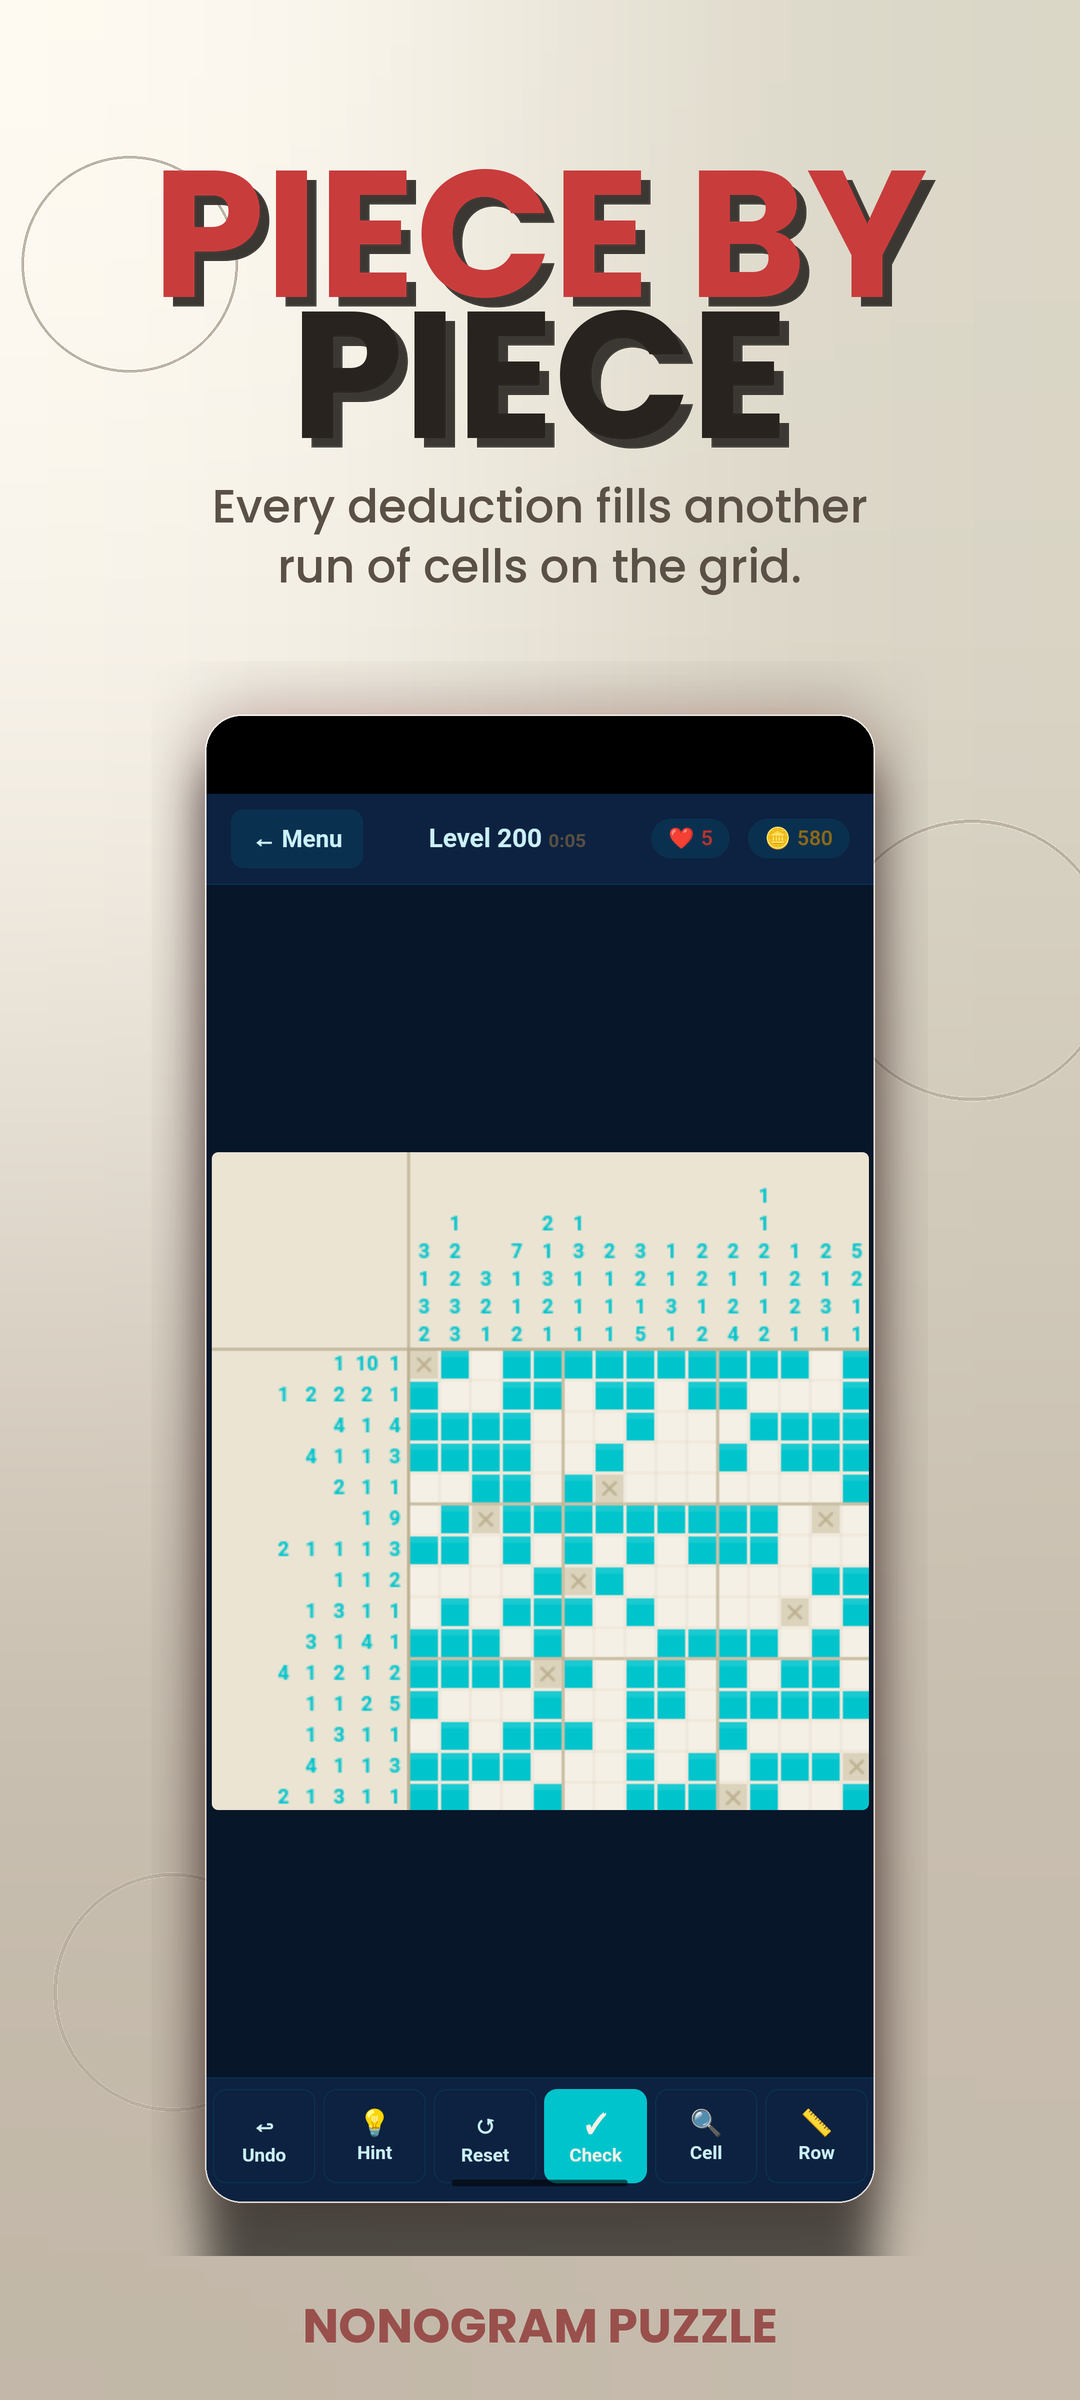
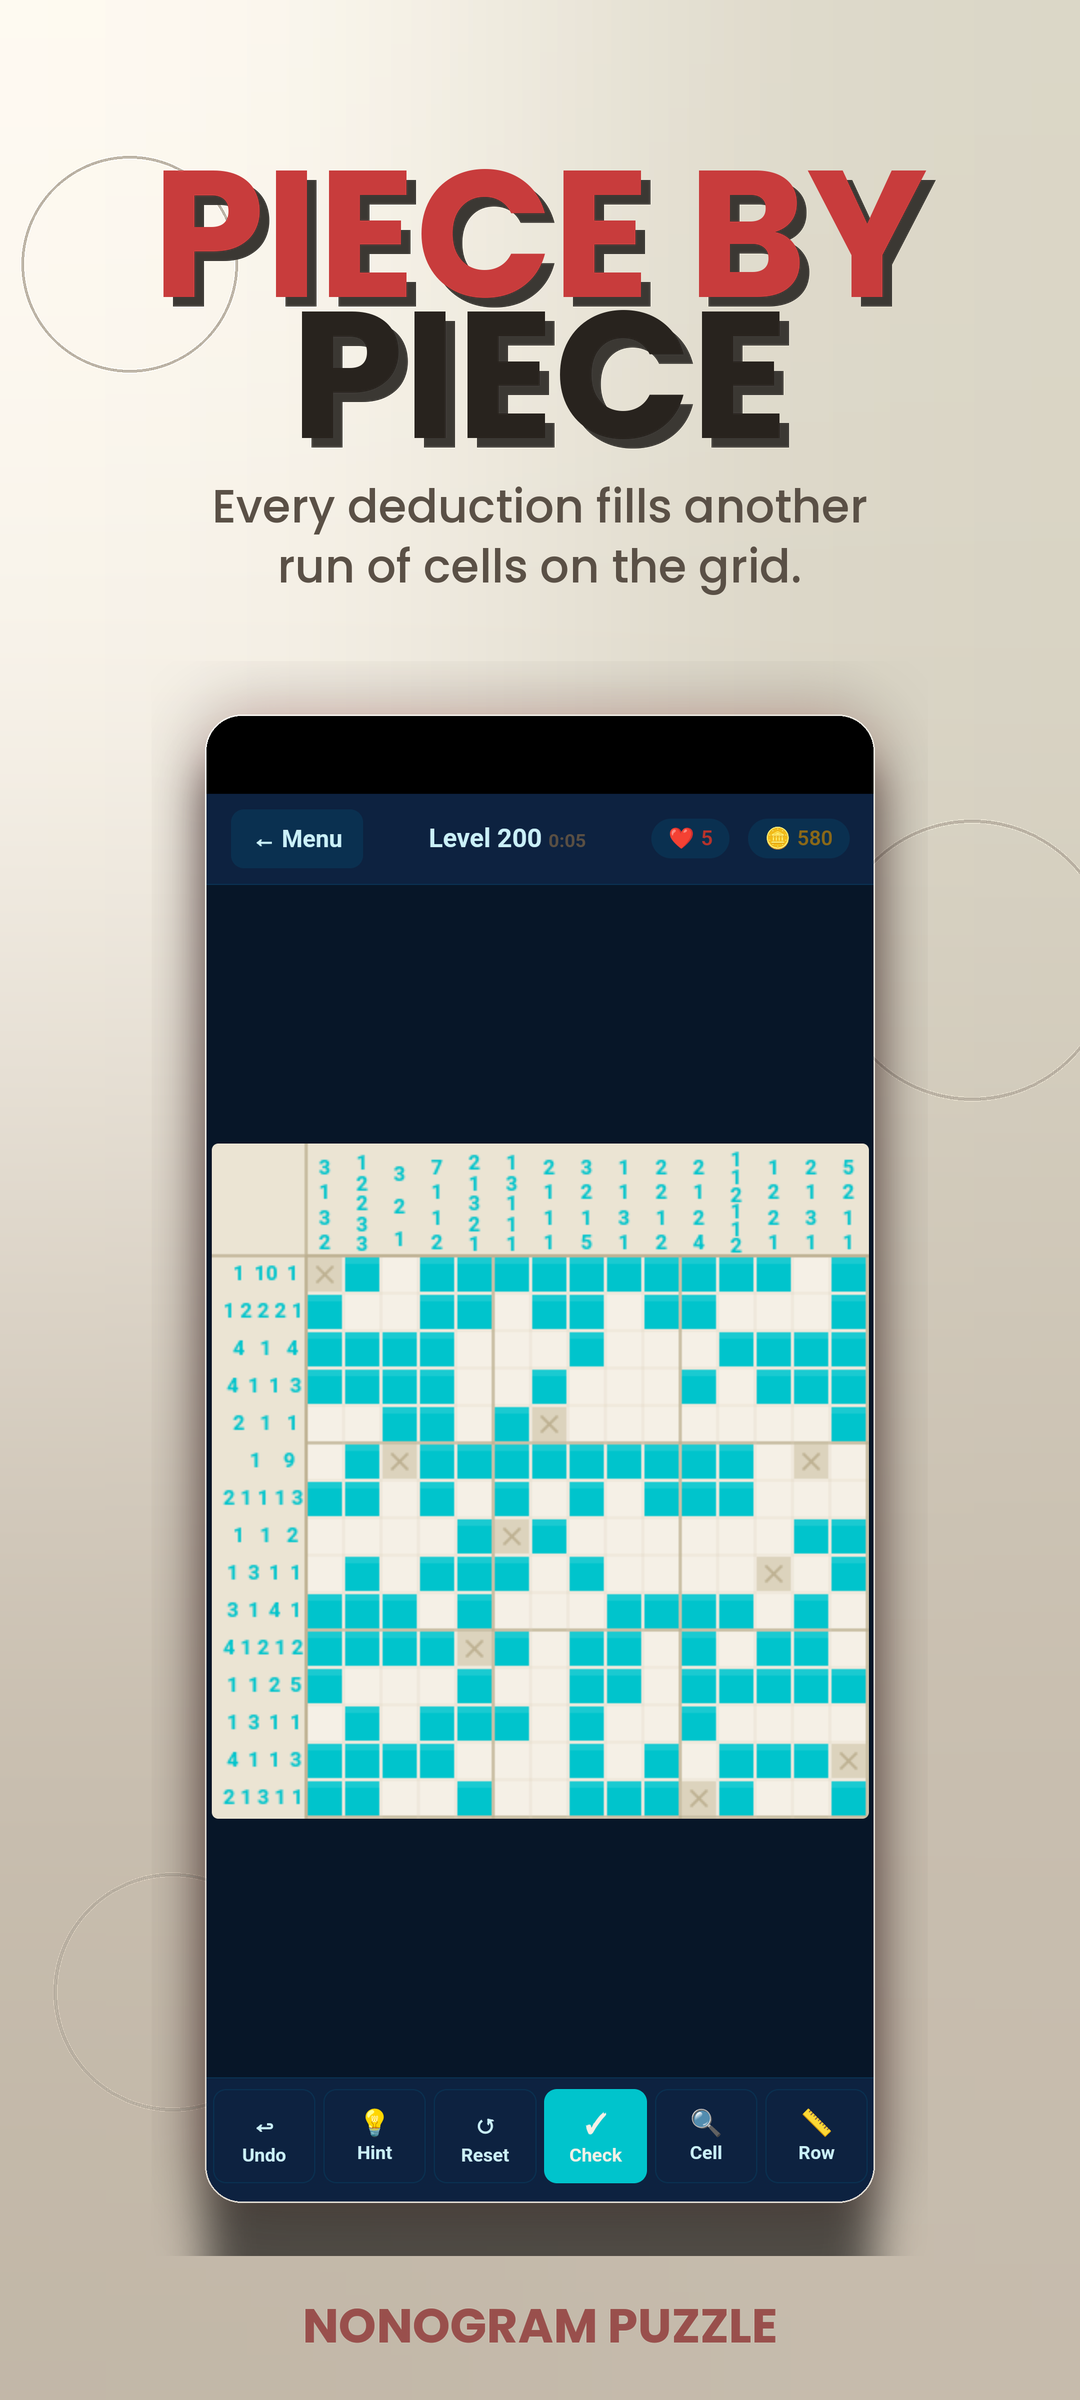
UB drop Achievements from Stats + Nono dynamic board sizing
UnblockPuzzle:
- Stats screen no longer renders the Achievements medal row; the same
  row already appears on the Missions screen so Stats was duplicating
  it. renderStats now emits only the hero card + 4 stat rows + best
  solves; medalsHtml + achievements pool variables deleted.

Nonogram:
- Clue strip width/height is now computed from the actual max clue
  count per row + per column (was a fixed clueRatio table). The board
  is sized so clue strips + grid cells together fill the canvas
  dynamically: a level with sparse clues gets narrow strips and big
  cells; a level with dense clues gets wider strips and tighter cells.
  Cell-size cap dropped (was 110px) — small boards can now grow to
  150-180px per cell on a phone. CLUE_SLOT tightened 0.75 -> 0.5.
- Clue font cap raised 28 -> 40, scales cellSize*0.55 with floor 12px.
  Small boards now show 40px clue numbers cleanly; 20×20 boards still
  fit clues at 24-28px in the narrower clue strip.

Both apps recaptured + re-wrapped + store paste regenerated.
All 4: pre_publish_check clean.

Changed region(s): [[0.2139, 0.4688, 0.825, 0.7812]]

diff --git a/Nonogram/android/app/src/main/assets/game.html b/Nonogram/android/app/src/main/assets/game.html
@@ -3144,38 +3144,40 @@ function watchAdForLife() {
 // ===================================================================
 function resizeCanvas() {
   if (!currentLevelData) return;
-  const size = currentLevelData.size;
+  const { size, rowClues, colClues } = currentLevelData;
   const wrap = document.querySelector('.canvas-wrap');
   const W = wrap.clientWidth || window.innerWidth;
   const H = wrap.clientHeight || (window.innerHeight - 100);
 
-  // Clue area ratio — Round-16: tightened for 20×20 boards so the
-  // playable grid cells get bigger (was 0.38, leaving cells at ~32px
-  // on a 1080-wide phone). At 0.30 the same board gets ~38px cells
-  // and the clue strip is still wide enough for max-5-number rows.
-  let clueRatio;
-  if (size <= 5) clueRatio = 0.22;
-  else if (size <= 10) clueRatio = 0.26;
-  else if (size <= 15) clueRatio = 0.30;
-  else clueRatio = 0.30;
+  // Round-17 (2026-06-09): the clue strip is sized to the ACTUAL max
+  // number of clues per row (drives clueW) and per column (drives
+  // clueH), not a fixed ratio. The grid cells then fill whatever
+  // canvas space remains. This makes the board dynamic — a level
+  // whose hardest row only has 4 clue numbers gets a narrow clue
+  // strip and big cells, while a level with 8-clue rows widens the
+  // strip and tightens the cells. Cells AND hints scale together so
+  // the full canvas is used regardless of level.
+  const maxRowClues = Math.max(1, ...rowClues.map(r => r.filter(n => n !== 0).length || 1));
+  const maxColClues = Math.max(1, ...colClues.map(c => c.filter(n => n !== 0).length || 1));
 
   const availW = W * 0.98;
   const availH = H * 0.98;
 
-  // Cell size: fill available area. The cap exists so cells don't go
-  // absurdly large on small grids on huge canvases (a 5×5 at 200px/cell
-  // would dominate); past that ceiling the playable area still fills the
-  // canvas because clueW + gridW grows together.
-  const maxCellW = (availW * (1 - clueRatio)) / size;
-  const maxCellH = (availH * (1 - clueRatio)) / size;
-  let cellSize = Math.min(maxCellW, maxCellH);
-  cellSize = Math.max(cellSize, 8);
-  // Phone-friendly cap: small grids should still fill ~70% of the canvas
-  // width on a 1080-wide screen. 5×5 at 110px = 550 + 183 clue = 733 (~68% of 1080).
-  cellSize = Math.min(cellSize, 110);
+  // Each clue slot is treated as ~0.5 of a cell wide/tall — clue
+  // numbers don't need a full cell of room since they're single-digit
+  // most of the time. Computes cellSize so clueW + size*cellSize
+  // exactly fills availW (same for height). Round-17 dropped this
+  // from 0.75 -> 0.5 to give cells more room.
+  const CLUE_SLOT = 0.5;
+  const maxCellW = availW / (size + maxRowClues * CLUE_SLOT);
+  const maxCellH = availH / (size + maxColClues * CLUE_SLOT);
+  // No artificial cap — let cells fill whatever portrait/landscape
+  // canvas space the layout offers. Floor at 12px so degenerate cases
+  // don't render unreadable.
+  let cellSize = Math.max(12, Math.min(maxCellW, maxCellH));
 
-  const clueW = cellSize * size * clueRatio / (1 - clueRatio);
-  const clueH = clueW;
+  const clueW = cellSize * maxRowClues * CLUE_SLOT;
+  const clueH = cellSize * maxColClues * CLUE_SLOT;
   const gridW = cellSize * size;
   const gridH = cellSize * size;
 
@@ -3191,7 +3193,8 @@ function resizeCanvas() {
     clueW: Math.round(clueW), clueH: Math.round(clueH),
     cellSize: Math.round(cellSize),
     cols: size, rows: size,
-    totalW: Math.round(totalW), totalH: Math.round(totalH)
+    totalW: Math.round(totalW), totalH: Math.round(totalH),
+    maxRowClues: maxRowClues, maxColClues: maxColClues
   };
   drawCanvas();
 }
@@ -3293,11 +3296,10 @@ function drawCanvas(flashError) {
   ctx2d.moveTo(0, clueH); ctx2d.lineTo(W, clueH);
   ctx2d.stroke();
 
-  // Draw clues — Round-16 (2026-06-08): font scales with cellSize so
-  // 20×20 boards (Level 350+) get readable clue numbers. Previous 14px
-  // cap made the numbers tiny when cellSize was ~32-40px; the new floor
-  // of cellSize*0.65 reads clearly while still fitting the clue strip.
-  const fontSize = Math.max(11, Math.min(cellSize * 0.65, 28));
+  // Draw clues — Round-17 (2026-06-09): font scales with cellSize.
+  // Cap raised to 40px so small boards (5×5 / 10×10) where cells can
+  // grow to 100-160px get appropriately sized clue numbers.
+  const fontSize = Math.max(12, Math.min(cellSize * 0.55, 40));
   ctx2d.font = `700 ${fontSize}px system-ui, -apple-system, sans-serif`;
   ctx2d.textAlign = 'center';
   ctx2d.textBaseline = 'middle';

diff --git a/UnblockPuzzle/android/app/src/main/assets/game.html b/UnblockPuzzle/android/app/src/main/assets/game.html
@@ -3109,19 +3109,8 @@ function renderStats(){
     {icon:'👣',label:'Total Moves',sub:'blocks slid across all levels',value:totalMoves},
     {icon:'🪙',label:'Coin Balance',sub:'spend on hints & themes',value:state.coins||0},
   ];
-  // Achievements: 4 medals based on completed-level milestones
-  var achievements=[
-    {icon:'🥉',label:'First 10',unlock:10},
-    {icon:'🥈',label:'50 Solved',unlock:50},
-    {icon:'🥇',label:'100 Solved',unlock:100},
-    {icon:'🏆',label:'All 150',unlock:150},
-  ];
-  var medalsHtml='<div class="up-section-label">Achievements</div>'+
-    '<div style="display:grid;grid-template-columns:1fr 1fr 1fr 1fr;gap:10px">'+
-    achievements.map(function(a){
-      var on=completed>=a.unlock;
-      return '<div class="medal'+(on?' unlocked':'')+'"><div class="medal-icon">'+a.icon+'</div><div class="medal-label">'+a.label+'</div></div>';
-    }).join('')+'</div>';
+  // Achievements live on the Missions screen via renderMissionsExtras;
+  // removed from Stats to avoid duplicating the same medal row.
   // Best solves: top 3 levels with lowest move counts
   var moves=state.levelMoves||{};
   var bestEntries=Object.keys(moves).filter(function(k){return moves[k];}).map(function(k){return {idx:parseInt(k,10),moves:moves[k]};}).sort(function(a,b){return a.moves-b.moves;}).slice(0,3);
@@ -3134,7 +3123,7 @@ function renderStats(){
   }
   list.innerHTML=hero+rows.map(function(s){
     return '<div class="stat-card"><div class="stat-icon">'+s.icon+'</div><div class="stat-info"><h3>'+s.label+'</h3><p>'+s.sub+'</p></div><div class="stat-value">'+s.value+'</div></div>';
-  }).join('')+medalsHtml+bestHtml;
+  }).join('')+bestHtml;
 }
 /* Weekly bonus + achievements on Missions screen */
 function renderMissionsExtras(){
